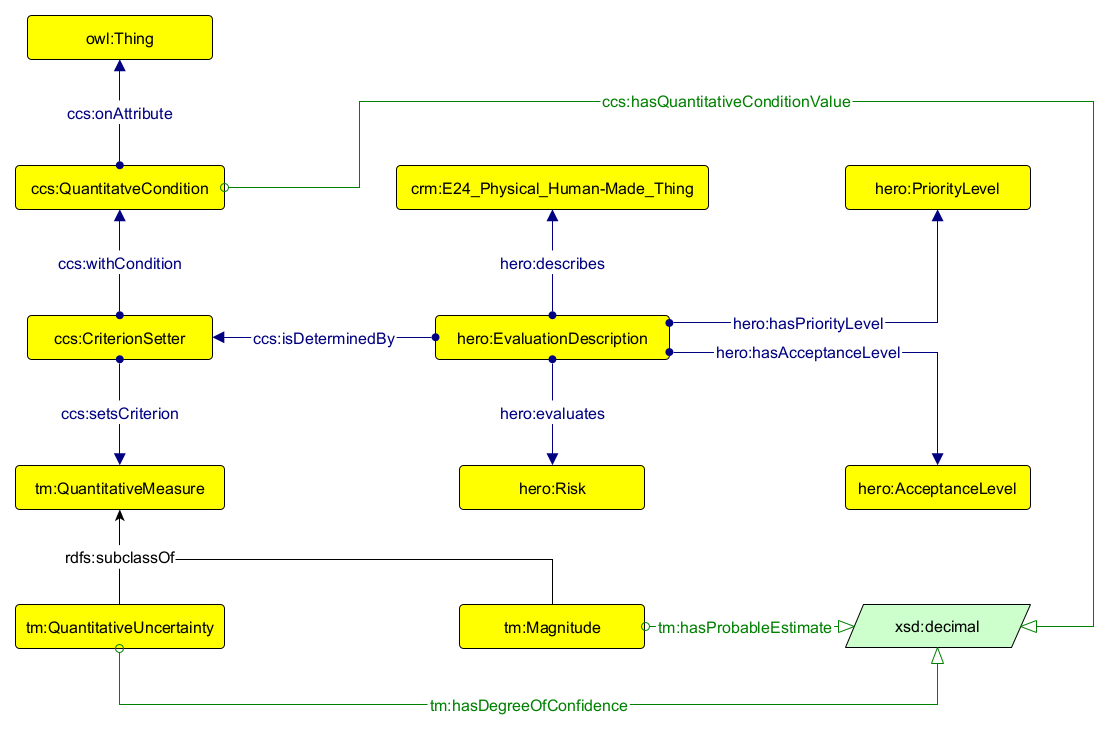
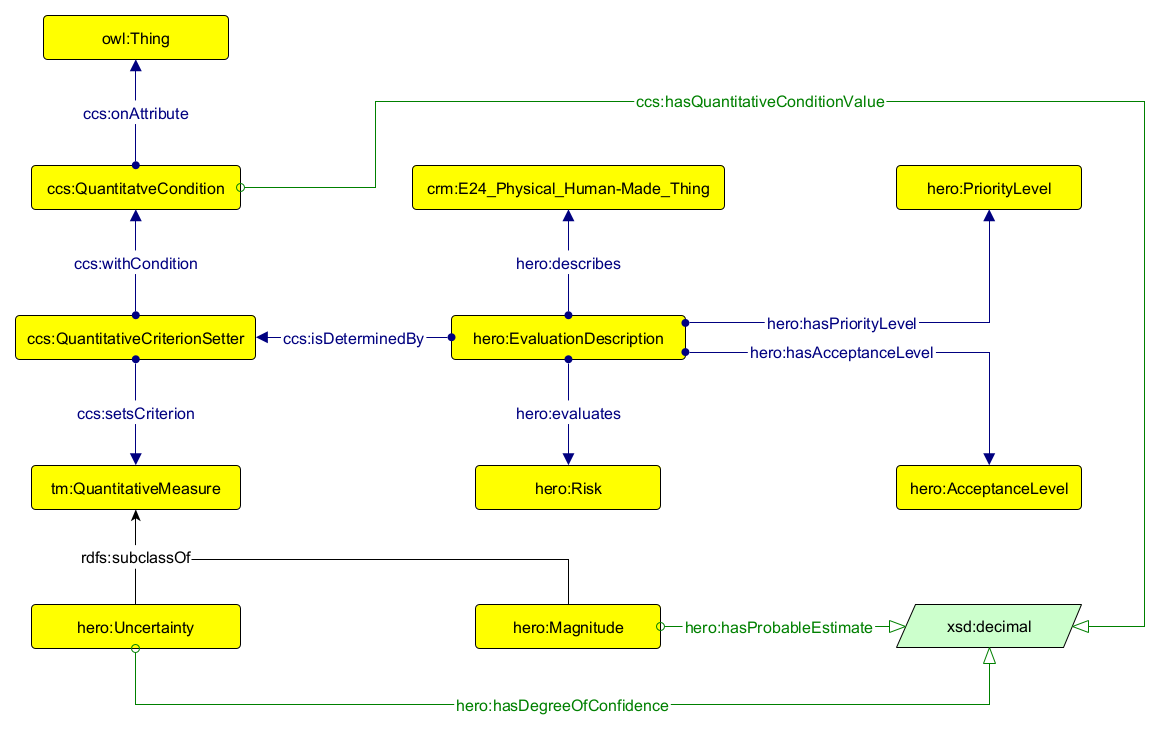
fix: iteration 05+ crosswalk, modelet, abox, formal cqs and testing

diff --git a/data_model/development/05/crosswalk.md b/data_model/development/05/crosswalk.md
@@ -9,8 +9,8 @@
 |                       | `CriterionSetter`               | Conditional Criterion Setter pattern | `QuantitativeCriterionSetter`   | https://w3id.org/sirius/ontology/ccs/QuantitativeCriterionSetter   |          |
 |                       | `QuantitativeCondition`         | Conditional Criterion Setter pattern | `QuantitativeCondition`         | https://w3id.org/sirius/ontology/ccs/QuantitativeCondition         |          |
 |                       | `QuantitativeMeasure`           | Typed Measure pattern                | `QuantitativeMeasure`           | https://w3id.org/sirius/ontology/tm/QuantitativeMeasure            |          |
-|                       | `Uncertainty`                   | Typed Measure pattern                | `QuantitativeUncertainty`       | https://w3id.org/sirius/ontology/tm/QuantitativeUncertainty        |          |
-|                       | `Magnitude`                     | Typed Measure pattern                | `Magnitude`                     | https://w3id.org/sirius/ontology/tm/Magnitude                      |          |
+|                       | `Uncertainty`                   | HeRO                | `Uncertainty`       | https://w3id.org/sirius/ontology/hero/Uncertainty        |          |
+|                       | `Magnitude`                     | HeRO                | `Magnitude`                     | https://w3id.org/sirius/ontology/hero/Magnitude                      |          |
 | **Object properties** |                                 |                                      |                                 |                                                                    |          |
 |                       | `hasPriorityLevel`              | HeRO                                 | `hasPriorityLevel`              | https://w3id.org/sirius/ontology/hero/hasPriorityLevel             |          |
 |                       | `hasAcceptanceLevel`            | HeRO                                 | `hasAcceptanceLevel`            | https://w3id.org/sirius/ontology/hero/hasAcceptanceLevel           |          |
@@ -22,8 +22,8 @@
 |                       | `onAttribute`                   | Conditional Criterion Setter pattern | `onAttribute`                   | https://w3id.org/sirius/ontology/ccs/onAttribute                   |          |
 | **Data properties**   |                                 |                                      |                                 |                                                                    |          |
 |                       | `hasQuantitativeConditionValue` | Conditional Criterion Setter pattern | `hasQuantitativeConditionValue` | https://w3id.org/sirius/ontology/ccs/hasQuantitativeConditionValue |          |
-|                       | `hasProbableEstimate`           | Typed Measure pattern                | `hasProbableEstimate`           | https://w3id.org/sirius/ontology/tm/hasProbableEstimate            |          |
-|                       | `hasDegreeOfConfidence`         | Typed Measure pattern                | `hasDegreeOfConfidence`         | https://w3id.org/sirius/ontology/tm/hasDegreeOfConfidence          |          |
+|                       | `hasProbableEstimate`           | HeRO                | `hasProbableEstimate`           | https://w3id.org/sirius/ontology/hero/hasProbableEstimate            |          |
+|                       | `hasDegreeOfConfidence`         | HeRO                | `hasDegreeOfConfidence`         | https://w3id.org/sirius/ontology/hero/hasDegreeOfConfidence          |          |
 | **Individuals**       |                                 |                                      |                                 |                                                                    |          |
 |                       | `treat-asap`                    | HeRO                                 | `treat-asap`                    | https://w3id.org/sirius/ontology/hero/treat-asap                   |          |
 |                       | `review-asap`                   | HeRO                                 | `review-asap`                   | https://w3id.org/sirius/ontology/hero/review-asap                  |          |

diff --git a/data_model/sparql/05/formal-competency-questions.md b/data_model/sparql/05/formal-competency-questions.md
@@ -38,8 +38,8 @@ WHERE {
     ?criterion ?value_property ?criterion_value .
     ?condition ccs:hasQuantitativeConditionValue ?condition_value .
     FILTER (
-      ?value_property = tm:hasProbableEstimate ||
-      ?value_property = tm:hasDegreeOfConfidence
+      ?value_property = hero:hasProbableEstimate ||
+      ?value_property = hero:hasDegreeOfConfidence
     )
 }
 ```
@@ -62,13 +62,13 @@ WHERE {
               ccs:isDeterminedBy ?magnitude_setter , ?uncertainty_setter .
     ?magnitude_setter ccs:setsCriterion ?magnitude ;
                       ccs:withCondition ?magnitude_condition .
-    ?magnitude a tm:Magnitude ;
-               tm:hasProbableEstimate ?magnitude_value .
+    ?magnitude a hero:Magnitude ;
+               hero:hasProbableEstimate ?magnitude_value .
     ?magnitude_condition ccs:hasQuantitativeConditionValue ?magnitude_condition_value .
     ?uncertainty_setter ccs:setsCriterion ?uncertainty ;
                       ccs:withCondition ?uncertainty_condition .
-    ?uncertainty a tm:QuantitativeUncertainty ;
-                 tm:hasDegreeOfConfidence ?uncertainty_value .
+    ?uncertainty a hero:Uncertainty ;
+                 hero:hasDegreeOfConfidence ?uncertainty_value .
     ?uncertainty_condition ccs:hasQuantitativeConditionValue ?uncertainty_condition_value .
 }
 ```
